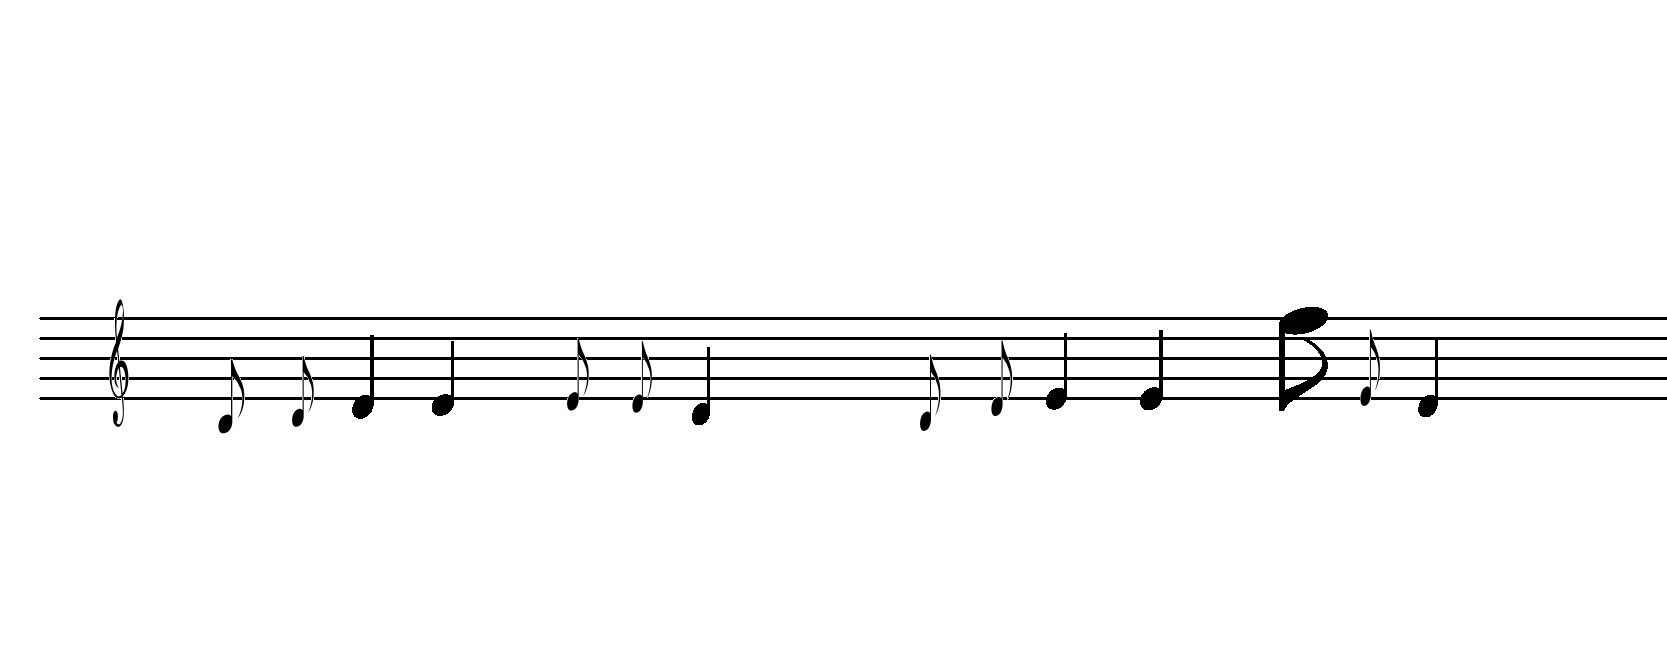
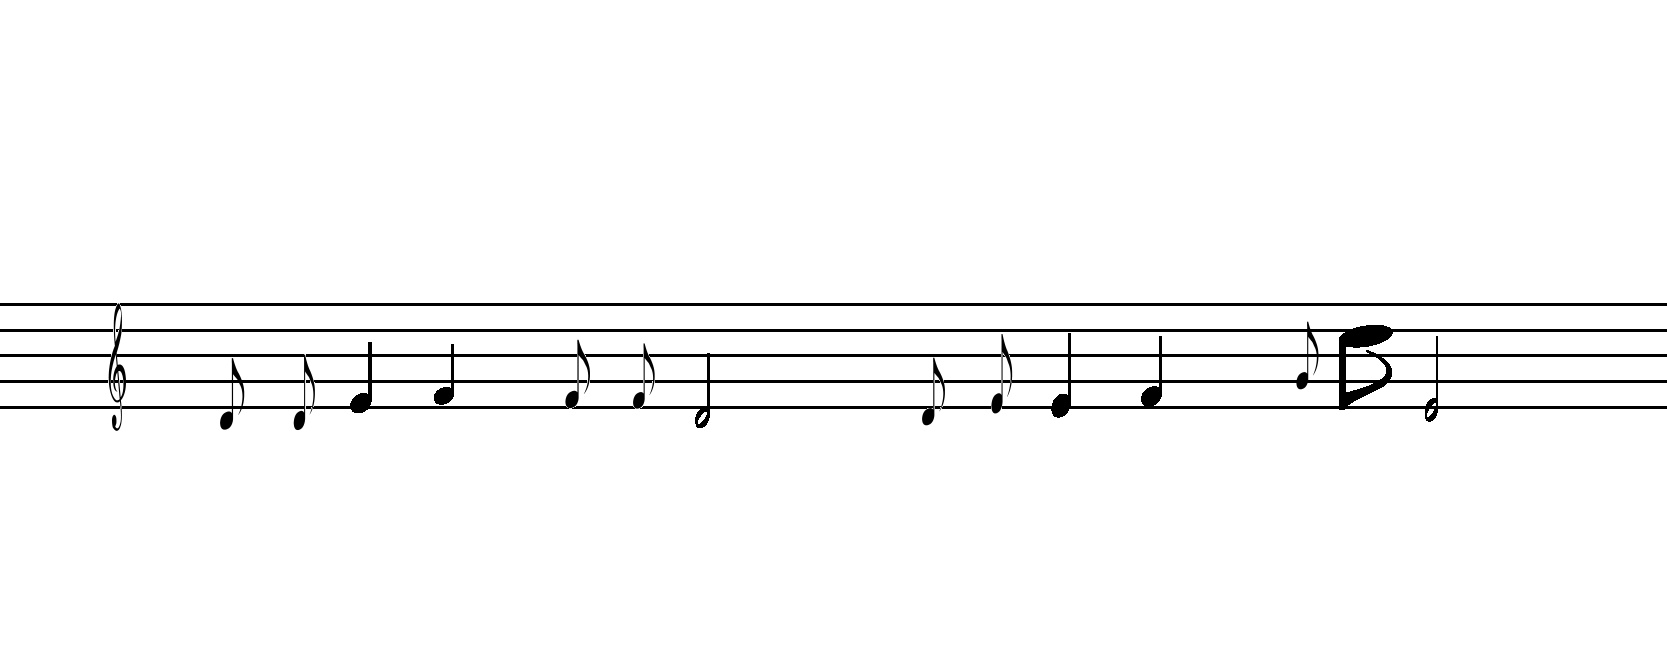
modify main.py

Changed region(s): [[0.0, 0.4594, 1.0, 0.6432]]

diff --git a/main.py b/main.py
@@ -5,9 +5,12 @@ import numpy as np
 # 음표 이미지 로드
 notes_path = "notes/"
 eighth_note = cv2.imread(notes_path + "eighthNote.png", cv2.IMREAD_UNCHANGED)
-eighth_note_ti = cv2.imread(notes_path + "eighthNoteTi.png", cv2.IMREAD_UNCHANGED)
+eighth_note_ti = cv2.imread(
+    notes_path + "eighthNoteTi.png", cv2.IMREAD_UNCHANGED)
 quarter_note = cv2.imread(notes_path + "quarterNote.png", cv2.IMREAD_UNCHANGED)
-quarter_note_ti = cv2.imread(notes_path + "quarterNoteTi.png", cv2.IMREAD_UNCHANGED)
+quarter_note_ti = cv2.imread(
+    notes_path + "quarterNoteTi.png", cv2.IMREAD_UNCHANGED)
+half_note = cv2.imread(notes_path + "halfNote.png",  cv2.IMREAD_UNCHANGED)
 treble_clef = cv2.imread(notes_path + "trebleClef.png", cv2.IMREAD_UNCHANGED)
 
 # PyTorch 모델 로드
@@ -27,8 +30,8 @@ detections = results.xyxy[0].numpy()  # 탐지된 객체 좌표
 new_image = np.ones_like(image) * 255  # 흰색 배경 이미지
 
 # 오선 간격 계산 변수
-staff_spacing = None
-staff_y1 = None
+staff_spacing = 10
+staff_y1 = 10
 
 
 def is_ti(center_y, staff_y1, staff_spacing):
@@ -43,7 +46,8 @@ def overlay_image(background, overlay, x, y, width, height):
     """
     background에 overlay 이미지를 합성.
     """
-    overlay_resized = cv2.resize(overlay, (width, height), interpolation=cv2.INTER_AREA)
+    overlay_resized = cv2.resize(
+        overlay, (width, height), interpolation=cv2.INTER_AREA)
     for i in range(overlay_resized.shape[0]):  # height
         for j in range(overlay_resized.shape[1]):  # width
             if overlay_resized[i, j][3] > 0:  # 투명하지 않은 픽셀
@@ -56,18 +60,37 @@ def draw_staff(image, bounding_box):
     """
     global staff_spacing, staff_y1
     x1, y1, x2, y2 = bounding_box
+
+    # 이미지의 높이와 너비 가져오기
+    image_height, image_width = image.shape[:2]
+
+    # None 처리: 값이 없으면 기본값 할당
+    if x1 is None:
+        x1 = 0
+    if x2 is None:
+        x2 = image_width
+    if y1 is None:
+        y1 = 0
+    if y2 is None:
+        y2 = image_height - 10  # 이미지 높이 - 10
+
+    # x와 y 값의 범위 제한
+    x1 = max(0, min(x1, image_width))
+    x2 = max(0, min(x2, image_width))
+    y1 = max(0, min(y1, image_height))
+    y2 = max(0, min(y2, image_height))
+
+    # staff_y1과 staff_spacing 계산
     staff_y1 = y1
-    staff_spacing = (y2 - y1) / 4  # 오선 간격 계산
+    staff_spacing = (y2 - y1) / 4 if (y2 -
+                                      y1) > 0 else image_height / 20  # 기본 간격
+
+    print(f"staff_y1: {staff_y1}, staff_spacing: {staff_spacing}")
+
+    # 오선 그리기
     for i in range(5):  # 오선 5줄 그림
         y = int(y1 + i * staff_spacing)
         cv2.line(image, (int(x1), y), (int(x2), y), (0, 0, 0), 2)
-        # staff_spacing 계산 로직 추가
-        if staff_spacing is None:
-            raise ValueError("staff_spacing 값이 None입니다. 올바른 값으로 설정되었는지 확인하세요.")
-
-        staff_center_y = staff_y1 + staff_spacing * 2.5
-        print(f"staff_y1: {staff_y1}, staff_spacing: {staff_spacing}")
-
 
 
 def draw_treble_clef_image(image, bounding_box):
@@ -91,6 +114,8 @@ def draw_note_image(image, bounding_box, note_type, is_ti):
         overlay = eighth_note_ti if is_ti else eighth_note
     elif note_type == "quarter":
         overlay = quarter_note_ti if is_ti else quarter_note
+    elif note_type == "half":
+        overlay = half_note
     else:
         return
     overlay_image(image, overlay, int(x1), int(y1), width, height)
@@ -99,31 +124,40 @@ def draw_note_image(image, bounding_box, note_type, is_ti):
 # 탐지 결과 처리
 for detection in detections:
     x1, y1, x2, y2, confidence, class_id = detection
+
     if confidence > 0.35:
         # 기존 Detection 이미지 출력
         label = f"Class {int(class_id)}: {confidence:.2f}"
-        cv2.rectangle(image, (int(x1), int(y1)), (int(x2), int(y2)), (0, 0, 255), 2)
-        cv2.putText(image, label, (int(x1), int(y1) - 10), cv2.FONT_HERSHEY_SIMPLEX, 0.5, (0, 0, 255), 1)
+        cv2.rectangle(image, (int(x1), int(y1)),
+                      (int(x2), int(y2)), (0, 0, 255), 2)
+        cv2.putText(image, label, (int(x1), int(y1) - 10),
+                    cv2.FONT_HERSHEY_SIMPLEX, 0.5, (0, 0, 255), 1)
 
-        # # 새로운 이미지에 추가
-        # if class_id == 0:  # 오선
-        #     draw_staff(new_image, (x1, y1, x2, y2))
-        # elif class_id == 1:  # 높은 음자리표
-        #     draw_treble_clef_image(new_image, (x1, y1, x2, y2))
-        # elif class_id == 2:  # 8분 음표
-        #     center_y = (y1 + y2) // 2
-        #     draw_note_image(new_image, (x1, y1, x2, y2), "eighth", is_ti(center_y, staff_y1, staff_spacing))
-        # elif class_id == 3:  # 4분 음표
-        #     center_y = (y1 + y2) // 2
-        #     draw_note_image(new_image, (x1, y1, x2, y2), "quarter", is_ti(center_y, staff_y1, staff_spacing))
+        # 새로운 이미지에 추가
+        if class_id == 0:  # 오선
+            draw_staff(new_image, (x1, y1, x2, y2))
+        elif class_id == 1:  # 높은 음자리표
+            draw_treble_clef_image(new_image, (x1, y1, x2, y2))
+        elif class_id == 2:  # 8분 음표
+            center_y = (y1 + y2) // 2
+            draw_note_image(new_image, (x1, y1, x2, y2), "eighth",
+                            is_ti(center_y, staff_y1, staff_spacing))
+        elif class_id == 3:  # 4분 음표
+            center_y = (y1 + y2) // 2
+            draw_note_image(new_image, (x1, y1, x2, y2), "quarter",
+                            is_ti(center_y, staff_y1, staff_spacing))
+        elif class_id == 4:  # 2분 음표
+            center_y = (y1+y2) // 2
+            draw_note_image(new_image, (x1, y1, x2, y2), "half",
+                            is_ti(center_y, staff_y1, staff_spacing))
 
 # 기존 Detection 이미지 출력
 cv2.imshow("Detections", image)
-cv2.imwrite("detected_image.jpg", image)
+cv2.imwrite("Images/detected_image.jpg", image)
 
-# # 새 이미지 출력
-# cv2.imshow("New Image", new_image)
-# cv2.imwrite("new_image.jpg", new_image)
+# 새 이미지 출력
+cv2.imshow("New Image", new_image)
+cv2.imwrite("Images/new_image.jpg", new_image)
 
 cv2.waitKey(0)
 cv2.destroyAllWindows()
